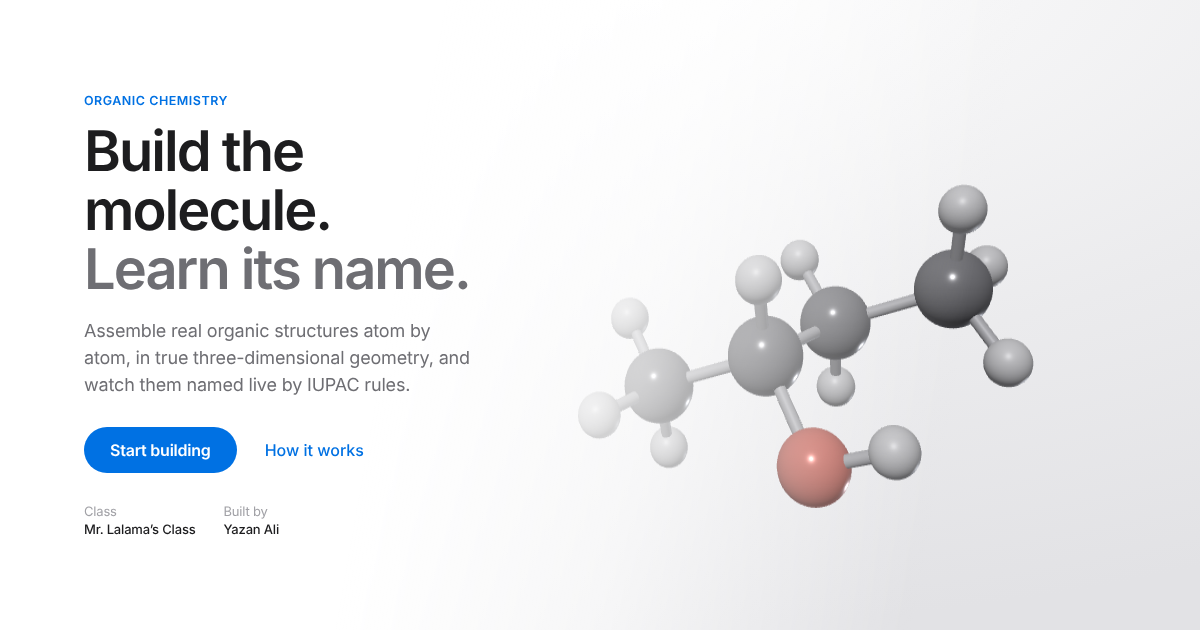
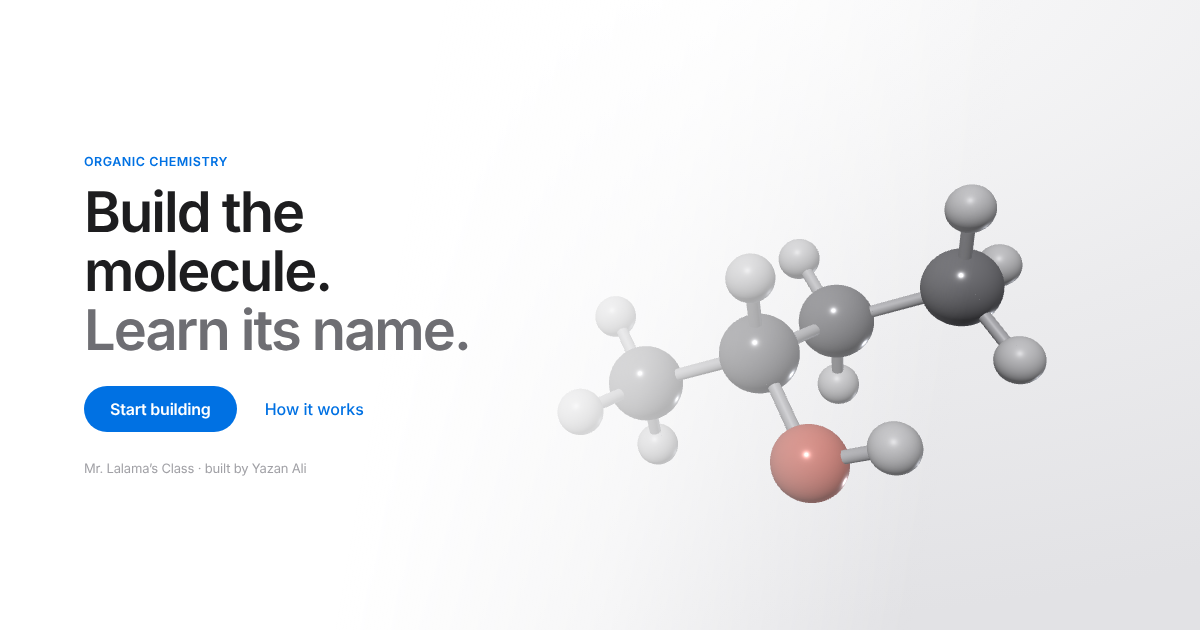
Fix the help sheet opening behind the intro, and cut the intro down
"How it works" looked broken from the intro. The sheet did open, but at
z-index 220 under an intro overlay at 300, so it sat behind it: visible
through the gradient, impossible to touch, and only revealed once "Start
building" removed the cover. Sheets now sit above the intro.

Fewer words:
- dropped the paragraph under the headline
- the class and author are one quiet line instead of a two-column block
- "You matched the structure." went; the heading already says Correct
- the four help steps are shorter, and the credit line repeated from the
  intro is gone
- the help button reads "Got it" mid-game rather than "Start building"

Phone, which is where this will mostly be used:
- the intro now owns the whole screen instead of leaving a white strip
  where the top bar sits, and the hero molecule is larger and sits
  nearer the copy, so the gap between them is gone
- in landscape the chrome shrinks: a phone turned sideways had about
  20px of clear stage between the task card and the controls, now 89
- sheets scroll rather than clip when a screen is too short for them
- the canvas resizes the moment the intro is dismissed, so it is not
  briefly stretched while the bar comes back

Checked at 375x667, 375x812, 390x844, 430x932 and in landscape: nothing
overflows, nothing overlaps, and the help sheet is reachable from the
intro on every one.

Claude-Session: https://claude.ai/code/session_01BGtVMj5ycLSd1FAHzwj39L

diff --git a/index.html b/index.html
@@ -125,7 +125,7 @@
   #task, #readout, #dock { transition: opacity .5s ease .1s; }
   body.pre #task, body.pre #readout, body.pre #dock { opacity: 0; pointer-events: none; }
   #bar { transition: opacity .5s ease .15s; }
-  body.pre #bar { opacity: 0; }
+  body.pre #bar { display: none; }
 
   /* ---------------- Stage ---------------- */
   #stage {
@@ -254,12 +254,13 @@
   #toast.show { opacity: 1; transform: translateX(-50%) translateY(0); }
 
   /* ---------------- Sheets ---------------- */
-  .sheet { position: fixed; inset: 0; z-index: 200; display: none; align-items: center; justify-content: center; padding: 20px; }
+  /* above the intro overlay (z 300), or the help sheet opens behind it */
+  .sheet { position: fixed; inset: 0; z-index: 400; display: none; padding: 20px; overflow-y: auto; -webkit-overflow-scrolling: touch; }
   .sheet.show { display: flex; }
-  .scrim { position: absolute; inset: 0; background: rgba(0,0,0,0.28); -webkit-backdrop-filter: blur(4px); backdrop-filter: blur(4px); animation: fade .3s ease; }
+  .scrim { position: fixed; inset: 0; background: rgba(0,0,0,0.28); -webkit-backdrop-filter: blur(4px); backdrop-filter: blur(4px); animation: fade .3s ease; }
   @keyframes fade { from { opacity: 0 } to { opacity: 1 } }
   .card {
-    position: relative; z-index: 1; width: 100%; max-width: 380px;
+    position: relative; z-index: 1; width: 100%; max-width: 380px; margin: auto;
     background: var(--bg); border: 1px solid var(--hair);
     border-radius: 26px; box-shadow: var(--sh-3);
     padding: 30px 28px 24px; text-align: center;
@@ -267,6 +268,7 @@
   }
   @keyframes pop { from { opacity: 0; transform: translateY(12px) scale(.97) } to { opacity: 1; transform: none } }
   .card h2 { font-size: 24px; font-weight: 600; letter-spacing: -0.024em; margin-bottom: 7px; }
+  .card h2.tight { margin-bottom: 18px; }
   .card p.sub { font-size: 14.5px; line-height: 1.5; color: var(--ink-2); margin-bottom: 22px; }
   .seal { width: 56px; height: 56px; border-radius: 50%; margin: 0 auto 18px; display: grid; place-items: center; background: var(--good-bg); color: var(--good); }
   .seal svg { width: 30px; height: 30px; }
@@ -287,7 +289,7 @@
   #finalSheet .seal { background: var(--accent-bg); color: var(--accent); }
 
   /* help */
-  #helpSheet { z-index: 220; }
+  #helpSheet { z-index: 420; }
   #helpSheet .card { text-align: left; max-width: 400px; }
   #helpSheet h2 { margin-bottom: 20px; }
   .step { display: flex; gap: 13px; margin-bottom: 15px; }
@@ -317,16 +319,13 @@
   .sInner .eyebrow { display: block; font-size: 12.5px; font-weight: 600; letter-spacing: 0.04em; text-transform: uppercase; color: var(--accent); margin-bottom: 14px; }
   .sInner h1 { font-size: clamp(34px, 5.4vw, 56px); font-weight: 600; line-height: 1.05; letter-spacing: -0.035em; margin-bottom: 18px; }
   .sInner h1 span { color: var(--ink-2); }
-  .sInner .lede { font-size: clamp(15.5px, 1vw + 12px, 18px); line-height: 1.52; color: var(--ink-2); margin-bottom: 28px; max-width: 34ch; }
-  .sBtns { display: flex; gap: 10px; align-items: center; flex-wrap: wrap; margin-bottom: 30px; }
+  .sBtns { display: flex; gap: 10px; align-items: center; flex-wrap: wrap; margin: 26px 0 28px; }
   #beginBtn { padding: 13px 26px; border-radius: 999px; background: var(--accent); color: #fff; font-size: 16px; font-weight: 600; letter-spacing: -0.014em; transition: background .18s, transform .14s; }
   #beginBtn:hover { background: var(--accent-2); }
   #beginBtn:active { transform: scale(.97); }
   #howBtn { padding: 13px 18px; border-radius: 999px; color: var(--accent); font-size: 16px; font-weight: 500; transition: background .18s; }
   #howBtn:hover { background: var(--accent-bg); }
-  .sMeta { display: flex; gap: 28px; font-size: 13px; }
-  .sMeta .k { color: var(--ink-3); margin-bottom: 2px; }
-  .sMeta .v { color: var(--ink); font-weight: 500; }
+  .sMeta { font-size: 13px; color: var(--ink-3); }
 
   /* ---------------- Stage message (nothing to render) ---------------- */
   #stageMsg {
@@ -384,12 +383,27 @@
     #start { align-items: end; }
     #start::before { background: linear-gradient(0deg, var(--bg) 0%, var(--bg) 46%, transparent 86%); }
     .sInner h1 { font-size: clamp(30px, 8.5vw, 40px); }
-    .sInner .lede { margin-bottom: 22px; }
-    .sBtns { margin-bottom: 22px; }
+    .sBtns { margin: 22px 0 20px; }
   }
-  @media (max-height: 560px) {
-    .sInner .lede { display: none; }
+  @media (max-height: 520px) {
     .sMeta { display: none; }
+  }
+  /* phone in landscape: give the molecule its height back */
+  @media (max-height: 520px) and (orientation: landscape) {
+    #task { width: min(290px, calc(100% - 28px)); padding: 10px 14px 11px; }
+    #targetName { font-size: 16px; line-height: 1.2; margin-bottom: 7px; }
+    .tHead { margin-bottom: 6px; }
+    .formula { font-size: 11.5px; margin-bottom: 8px; }
+    #dots button { height: 12px; }
+    .atomBtn { width: 40px; height: 40px; font-size: 15px; }
+    .dockBtn { width: 34px; height: 34px; }
+    #dock { padding: 6px; gap: 5px; bottom: calc(10px + env(safe-area-inset-bottom)); }
+    #readout { bottom: calc(72px + env(safe-area-inset-bottom)); padding: 5px 7px 5px 13px; }
+    #liveName { font-size: 13px; }
+    #nextFloat { bottom: calc(72px + env(safe-area-inset-bottom)); padding: 9px 20px; font-size: 14px; }
+    .card { padding: 22px 22px 18px; }
+    .card h2 { font-size: 20px; }
+    .step { margin-bottom: 11px; }
   }
 </style>
 </head>
@@ -462,8 +476,7 @@
   <div class="scrim"></div>
   <div class="card">
     <div class="seal"><svg viewBox="0 0 24 24" fill="none" stroke="currentColor" stroke-width="2.6" stroke-linecap="round" stroke-linejoin="round"><path d="M20 6.5 9.4 17 4 11.7"/></svg></div>
-    <h2 id="winTitle">Correct</h2>
-    <p class="sub">You matched the structure.</p>
+    <h2 id="winTitle" class="tight">Correct</h2>
     <div class="nameBox" id="winName">&mdash;</div>
     <div class="btnCol">
       <button class="cbtn solid" id="nextBtn">Next challenge</button>
@@ -477,7 +490,7 @@
   <div class="card">
     <div class="seal"><svg viewBox="0 0 24 24" fill="none" stroke="currentColor" stroke-width="2.2" stroke-linecap="round" stroke-linejoin="round"><path d="M8 20.5h8"/><path d="M12 16.5v4"/><path d="M7 4h10v4.8a5 5 0 0 1-10 0z"/><path d="M17 5.2h3v1.6a3 3 0 0 1-3 3"/><path d="M7 5.2H4v1.6a3 3 0 0 0 3 3"/></svg></div>
     <h2 id="finalTitle">All five complete</h2>
-    <p class="sub">You built and correctly named every molecule.</p>
+    <p class="sub">Every molecule built and named.</p>
     <div class="btnCol"><button class="cbtn solid" id="againBtn">Start over</button></div>
   </div>
 </div>
@@ -486,12 +499,11 @@
   <div class="scrim"></div>
   <div class="card">
     <h2 id="helpTitle">How it works</h2>
-    <div class="step"><div class="n">1</div><div class="t"><b>Pick an element</b> from the dock, then tap the stage for your first atom.</div></div>
-    <div class="step"><div class="n">2</div><div class="t"><b>Tap any atom</b> to grow the chain from it. Hydrogens fill in on their own.</div></div>
-    <div class="step"><div class="n">3</div><div class="t"><b>Bond two atoms</b> by deselecting the dock, then tapping one atom and another.</div></div>
-    <div class="step"><div class="n">4</div><div class="t"><b>Drag to orbit</b>, scroll or pinch to zoom. Bond angles relax to real sp³ geometry as you build.</div></div>
+    <div class="step"><div class="n">1</div><div class="t"><b>Pick an element</b>, then tap the stage to place it.</div></div>
+    <div class="step"><div class="n">2</div><div class="t"><b>Tap an atom</b> to grow the chain. Hydrogens fill in for you.</div></div>
+    <div class="step"><div class="n">3</div><div class="t"><b>To bond two atoms</b>, deselect the element, then tap one and the other.</div></div>
+    <div class="step"><div class="n">4</div><div class="t"><b>Drag to turn</b> the molecule, pinch to zoom.</div></div>
     <button class="cbtn solid" id="closeHelpBtn">Start building</button>
-    <div class="credit">Mr. Lalama&rsquo;s Class &middot; built by Yazan Ali</div>
   </div>
 </div>
 
@@ -499,15 +511,11 @@
   <div class="sInner">
     <span class="eyebrow">Organic Chemistry</span>
     <h1>Build the molecule.<br><span>Learn its name.</span></h1>
-    <p class="lede">Assemble real organic structures atom by atom, in true three-dimensional geometry, and watch them named live by IUPAC rules.</p>
     <div class="sBtns">
       <button id="beginBtn">Start building</button>
       <button id="howBtn">How it works</button>
     </div>
-    <div class="sMeta">
-      <div><div class="k">Class</div><div class="v">Mr. Lalama&rsquo;s Class</div></div>
-      <div><div class="k">Built by</div><div class="v">Yazan Ali</div></div>
-    </div>
+    <p class="sMeta">Mr. Lalama&rsquo;s Class &middot; built by Yazan Ali</p>
   </div>
 </div>
 
@@ -1909,8 +1917,12 @@ document.getElementById('winSheet').addEventListener('click', e => {
 document.getElementById('againBtn').addEventListener('click', resetGame);
 
 const helpSheet = document.getElementById('helpSheet');
-document.getElementById('helpBtn').addEventListener('click', () => openSheet('helpSheet'));
-document.getElementById('howBtn').addEventListener('click', () => openSheet('helpSheet'));
+function showHelp() {
+  document.getElementById('closeHelpBtn').textContent = started ? 'Got it' : 'Start building';
+  openSheet('helpSheet');
+}
+document.getElementById('helpBtn').addEventListener('click', showHelp);
+document.getElementById('howBtn').addEventListener('click', showHelp);
 document.getElementById('closeHelpBtn').addEventListener('click', () => { closeSheet('helpSheet'); dismissStart(); });
 helpSheet.addEventListener('click', e => { if (e.target === helpSheet || e.target.classList.contains('scrim')) closeSheet('helpSheet'); });
 
@@ -1919,6 +1931,7 @@ function dismissStart() {
   started = true;
   document.getElementById('start').classList.add('hide');
   document.body.classList.remove('pre');
+  resize();                                   // the bar reappears, so the stage shrinks
   setTimeout(() => { clearAll(); resize(); }, 360);
 }
 document.getElementById('beginBtn').addEventListener('click', dismissStart);
@@ -2029,7 +2042,7 @@ function introOffset() {
   const halfH = Math.tan(camera.fov * Math.PI / 360) * camera.position.z;
   return camera.aspect > 1.1
     ? _off.set(halfH * camera.aspect * 0.34, 0, 0)
-    : _off.set(0, halfH * 0.42, 0);
+    : _off.set(0, halfH * 0.22, 0);
 }
 
 function animate() {
@@ -2062,7 +2075,7 @@ function animate() {
 
   framePos.copy(centerTarget).negate().add(introOffset());
   frame.position.lerp(framePos, 1 - Math.pow(0.004, dt));
-  const wantZ = fitDist * zoom;
+  const wantZ = fitDist * zoom * (!started && camera.aspect <= 1.1 ? 0.93 : 1);   // slightly bigger hero on a phone
   camera.position.z += (wantZ - camera.position.z) * (1 - Math.pow(0.006, dt));
 
   renderer.render(scene, camera);
